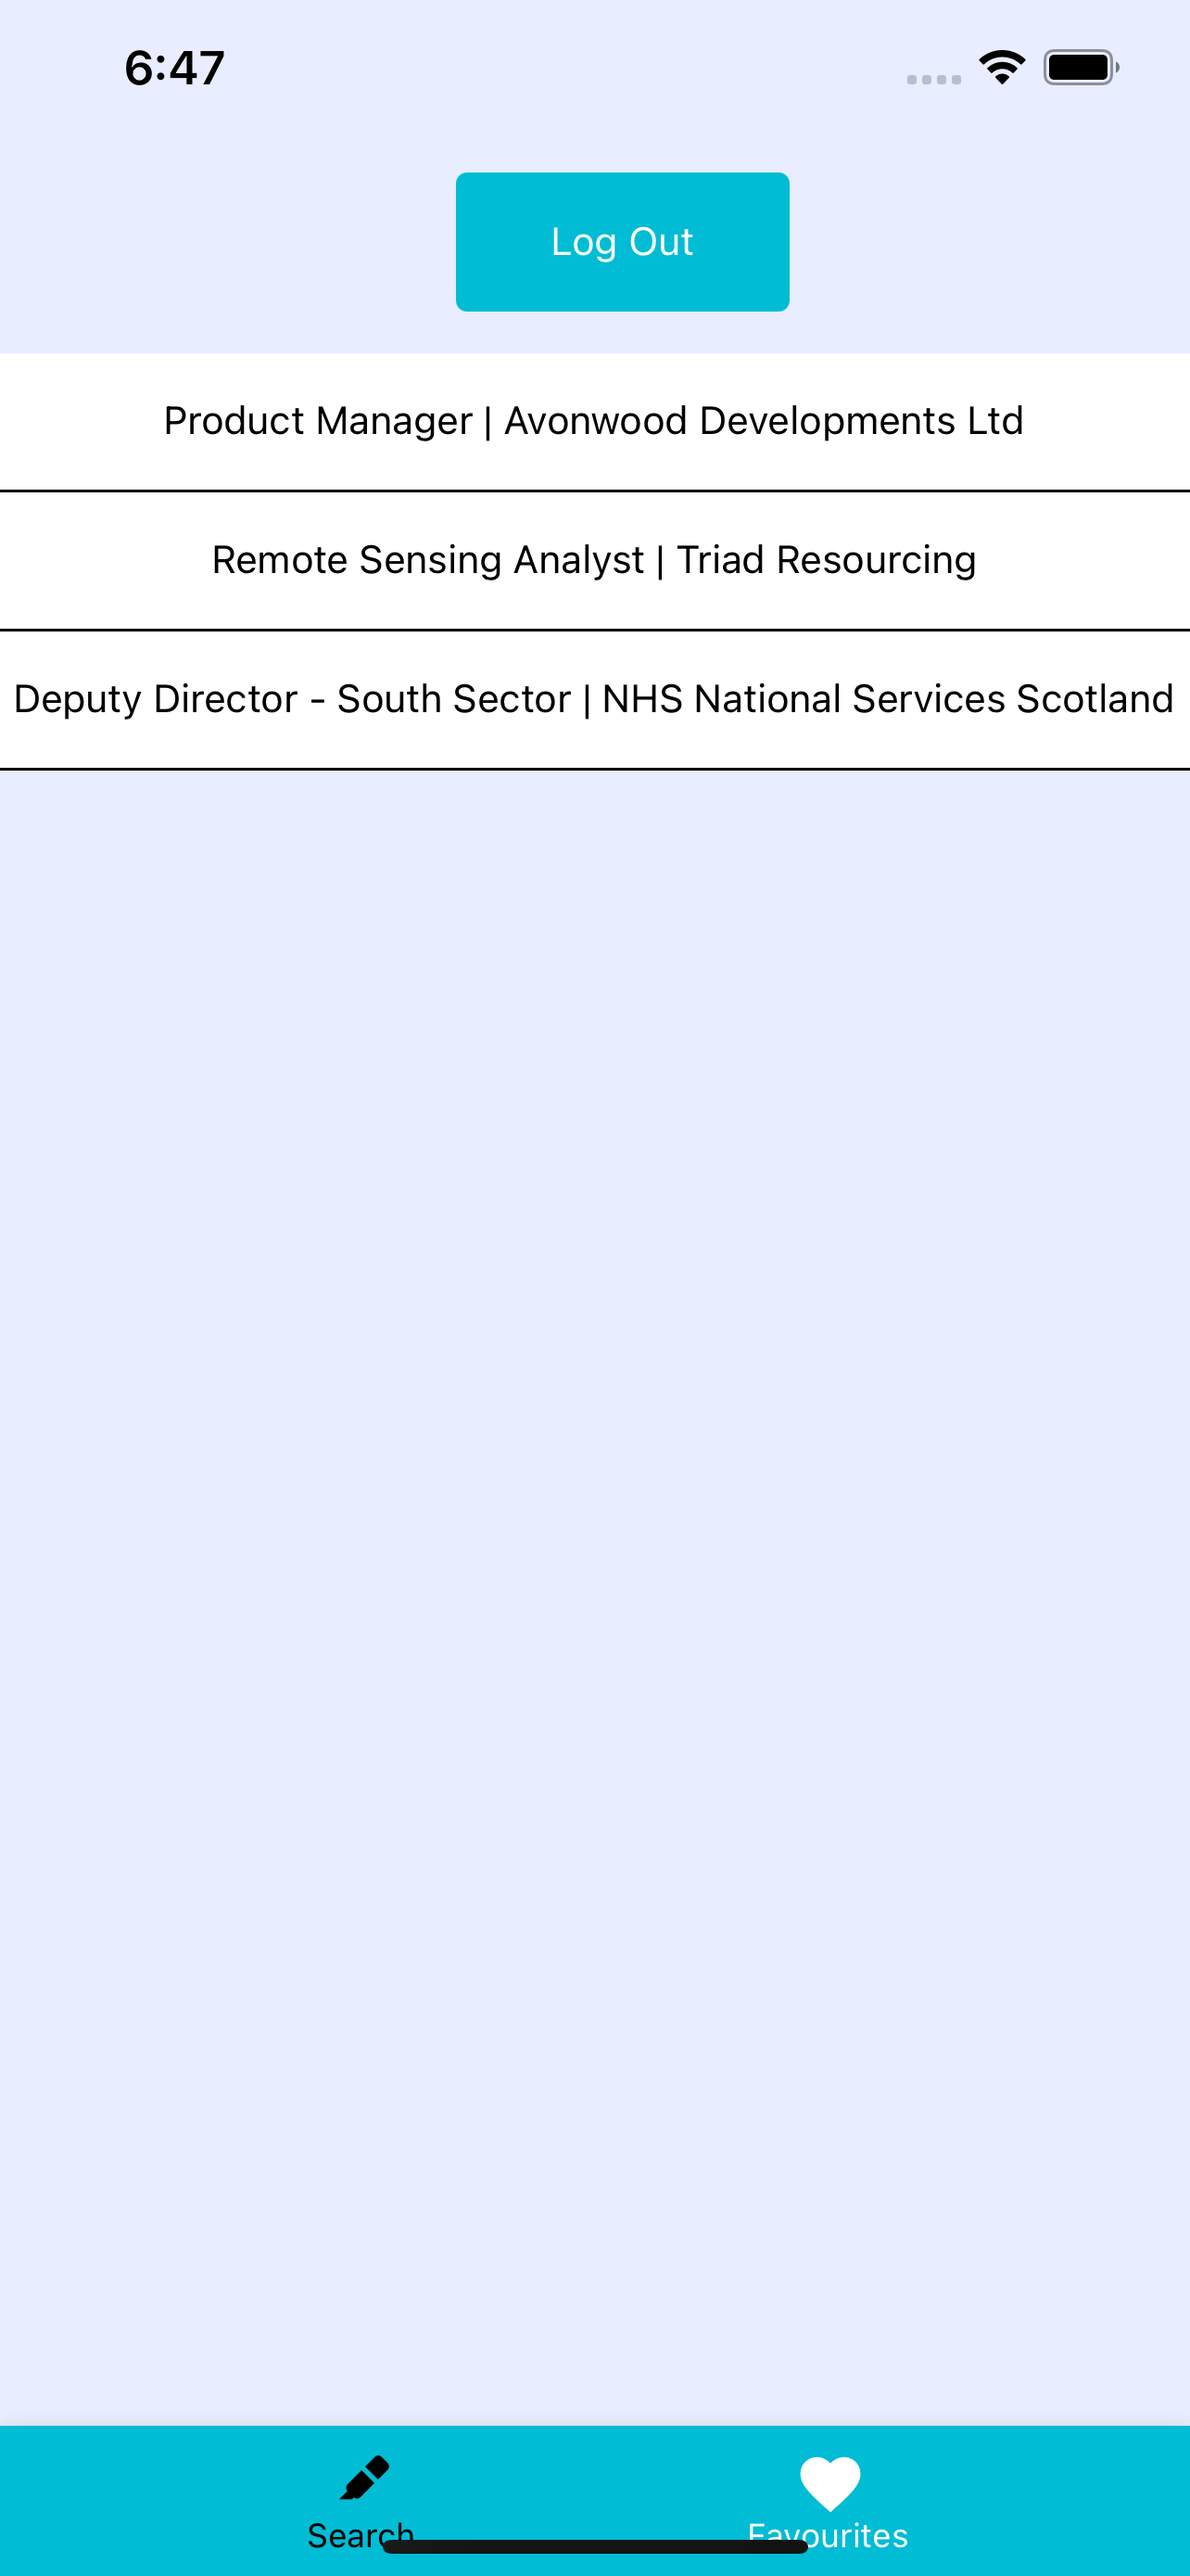
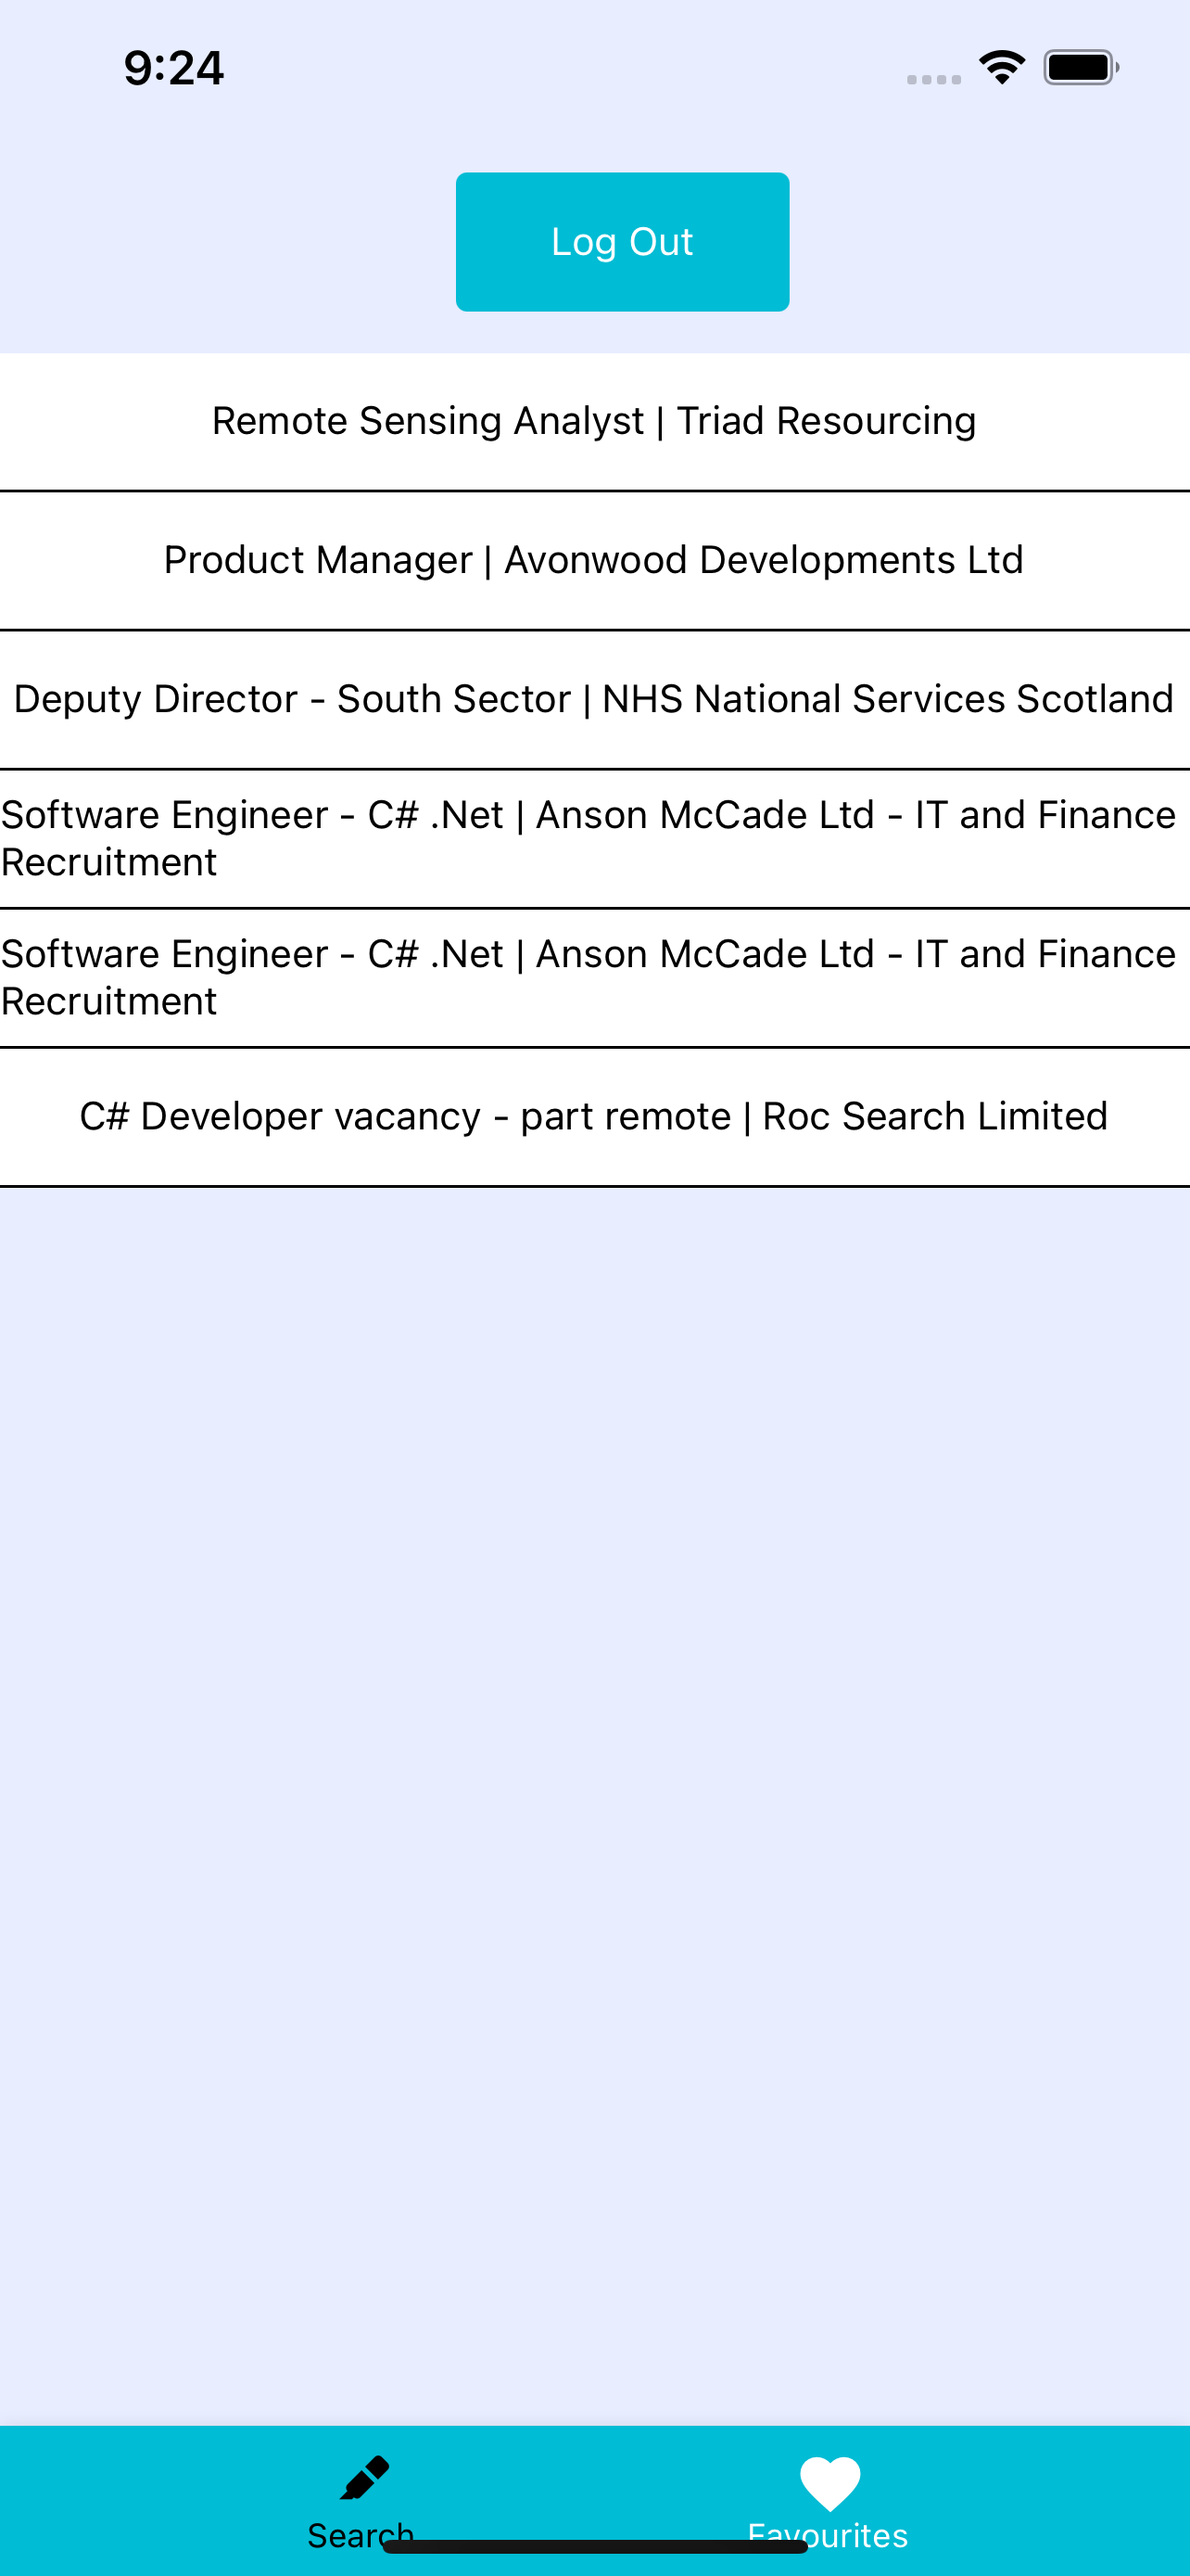
README update

diff --git a/app/screens/FavouritesScreen.js b/app/screens/FavouritesScreen.js
@@ -70,7 +70,6 @@ const FavouritesScreen = ({ navigation }) => {
     firebase.auth().onAuthStateChanged((user) => {
       if (user) {
         getJobID().then((data) => {
-          console.log(JSON.parse(data));
           setJobIDs(JSON.parse(data));
           setJobsNotPresent(false);
         });

diff --git a/README.md b/README.md
@@ -28,6 +28,7 @@ they can come back and apply for them later.
   </tr>
   <tr>
     <td><img src="showcase/Favourites.png" width="300"></td>
+    <td><img src="showcase/FavouritesOpened.png" width="300"></td>
   </tr>
   <tr>
   </tr>
